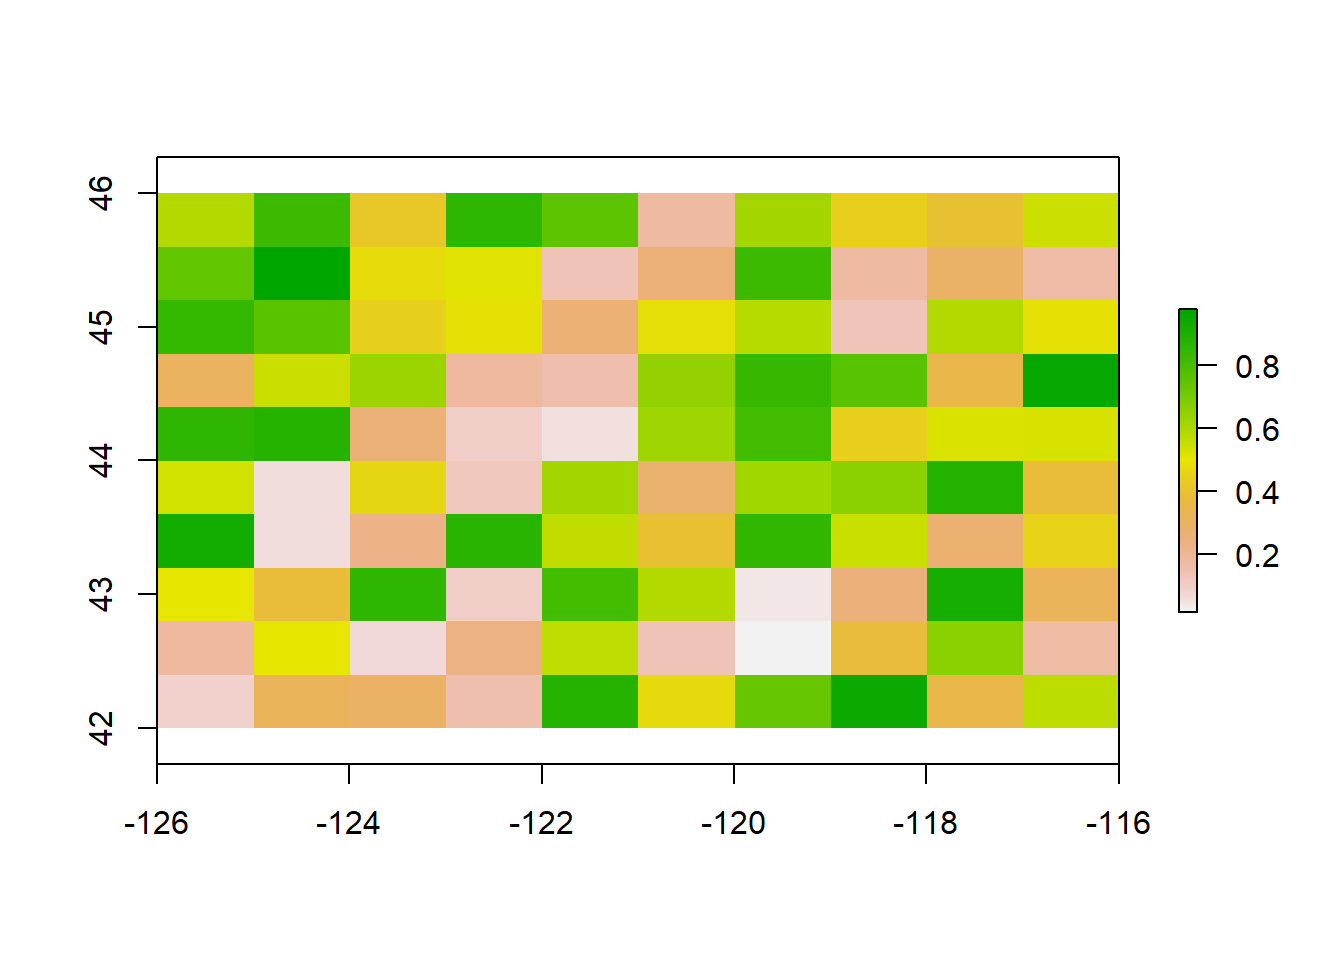
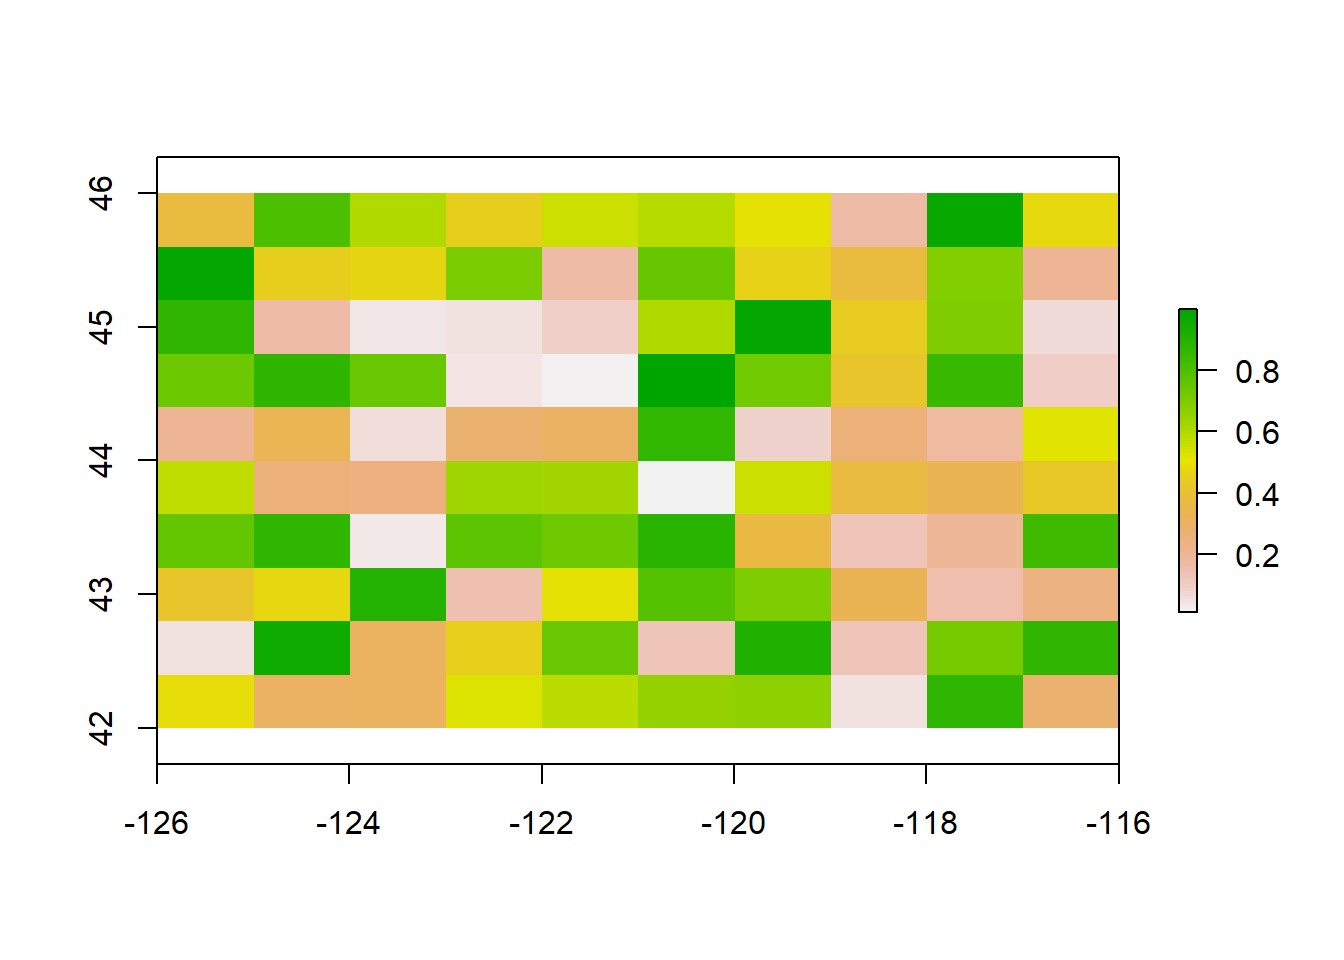
Finish raster section

diff --git a/SpatialObjects.html b/SpatialObjects.html
@@ -830,7 +830,7 @@ PNW &lt;-<span class="st"> </span><span class="kw">spTransform</span>(PNW, <span
 </div>
 <div id="vector-data-with-sf" class="section level3">
 <h3>Vector Data with sf</h3>
-<p>The <code>sf</code> package developed by Edzer Pebesma ia an implementation of <a href="https://en.wikipedia.org/wiki/Simple_Features">Simple features</a>, an open standard developed and endorsed by the Open Geospatial Consortium (OGC). Simple Features is a hierarchical data model that represents a wide range of geometry types - it includes all common vector geometry types(but does not include raster) and even allows geometry collections, which can have multiple geometry types in a single object. From the first <code>sf</code> package vignette we see:</p>
+<p>The <code>sf</code> package developed by Edzer Pebesma ia an implementation of <a href="https://en.wikipedia.org/wiki/Simple_Features">Simple features</a>, an open standard developed and endorsed by the Open Geospatial Consortium (OGC). Simple Features is a hierarchical data model that represents a wide range of geometry types - it includes all common vector geometry types (but does not include raster) and even allows geometry collections, which can have multiple geometry types in a single object. From the first <code>sf</code> package vignette we see:</p>
 <div class="figure">
 <img src="/R-User-Group-Spatial-Workshop-2018/img/sf_objects.png" alt="sf Objects" />
 <p class="caption"><code>sf</code> Objects</p>
@@ -993,6 +993,19 @@ r &lt;-<span class="st"> </span><span class="kw">raster</span>(<span class="dt">
 ## resolution  : 1, 0.4  (x, y)
 ## extent      : -126, -116, 42, 46  (xmin, xmax, ymin, ymax)
 ## coord. ref. : +proj=longlat +datum=WGS84 +ellps=WGS84 +towgs84=0,0,0</code></pre>
+<p>A few quick questions to work through-</p>
+<ul>
+<li>what is the minimal data required to define a <code>RasterLayer</code>?</li>
+<li>What is odd here about the CRS?</li>
+<li>Based on our work with <code>sp</code>, how do we pull out just the CRS for our r <code>rasterLayer</code>? Hint - what is another way besides str(r) to see slots available with our <code>RasterLayer</code> r?</li>
+<li>Building on this, what is the code to pull out just our xmin value in our extent, or bounding box?</li>
+</ul>
+<div class="sourceCode"><pre class="sourceCode r"><code class="sourceCode r">r<span class="op">@</span>crs
+<span class="co"># or</span>
+<span class="kw">crs</span>(r)
+<span class="kw">slotNames</span>(r)
+r<span class="op">@</span>extent[<span class="dv">1</span>]
+<span class="kw">extent</span>(r)[<span class="dv">1</span>]</code></pre></div>
 <p>So far we just have a container with no values (try plotting what we have so far) - let’s provide values to the cells using the runif function to derive random values from the uniform distribution</p>
 <div class="sourceCode"><pre class="sourceCode r"><code class="sourceCode r">r[] &lt;-<span class="st"> </span><span class="kw">runif</span>(<span class="dt">n=</span><span class="kw">ncell</span>(r))
 r</code></pre></div>
@@ -1003,10 +1016,64 @@ r</code></pre></div>
 ## coord. ref. : +proj=longlat +datum=WGS84 +ellps=WGS84 +towgs84=0,0,0 
 ## data source : in memory
 ## names       : layer 
-## values      : 0.01620462, 0.979499  (min, max)</code></pre>
-<p>Notice the different output now on typing r? And we can plot now as well with base R <code>plot</code>:</p>
+## values      : 0.01235175, 0.9997275  (min, max)</code></pre>
+<p>Notice the different output now when typing ‘r?’ An important point to make here is that objects in the <code>raster</code> package can be either in memory or on disk - not the value for our <code>RasterLayer</code> r of ‘data source’. If this were a large raster on disk, the value would be the path to the file on disk.</p>
+<p>We can test this as well using methods in <code>raster</code> (and test if the raster has values too):</p>
+<div class="sourceCode"><pre class="sourceCode r"><code class="sourceCode r"><span class="kw">inMemory</span>(r)</code></pre></div>
+<pre><code>## [1] TRUE</code></pre>
+<div class="sourceCode"><pre class="sourceCode r"><code class="sourceCode r"><span class="kw">fromDisk</span>(r)</code></pre></div>
+<pre><code>## [1] FALSE</code></pre>
+<div class="sourceCode"><pre class="sourceCode r"><code class="sourceCode r"><span class="kw">hasValues</span>(r)</code></pre></div>
+<pre><code>## [1] TRUE</code></pre>
+<p>We can plot now as well with base R <code>plot</code>:</p>
 <div class="sourceCode"><pre class="sourceCode r"><code class="sourceCode r"><span class="kw">plot</span>(r)</code></pre></div>
 <p><img src="SpatialObjects_files/figure-html/plot%20raster-1.png" width="672" /></p>
+<p>We can also overwrite the cell values for our raster:</p>
+<div class="sourceCode"><pre class="sourceCode r"><code class="sourceCode r"><span class="kw">values</span>(r) &lt;-<span class="st"> </span><span class="dv">1</span><span class="op">:</span><span class="kw">ncell</span>(r)
+<span class="kw">values</span>(r)</code></pre></div>
+<pre><code>##   [1]   1   2   3   4   5   6   7   8   9  10  11  12  13  14  15  16  17
+##  [18]  18  19  20  21  22  23  24  25  26  27  28  29  30  31  32  33  34
+##  [35]  35  36  37  38  39  40  41  42  43  44  45  46  47  48  49  50  51
+##  [52]  52  53  54  55  56  57  58  59  60  61  62  63  64  65  66  67  68
+##  [69]  69  70  71  72  73  74  75  76  77  78  79  80  81  82  83  84  85
+##  [86]  86  87  88  89  90  91  92  93  94  95  96  97  98  99 100</code></pre>
+<p>You can access raster values via direct indexing or line, column indexing - take a minute to see how this works using raster r we just created - the syntax is:</p>
+<div class="sourceCode"><pre class="sourceCode r"><code class="sourceCode r">r[i]
+r[line, column]</code></pre></div>
+<p>How is <code>raster</code> data storage unlike a <code>matrix</code> in R? You can create a <code>matrix</code> with same dimensions and values and compare if you want:</p>
+<div class="sourceCode"><pre class="sourceCode r"><code class="sourceCode r">m &lt;-<span class="st"> </span><span class="kw">matrix</span> (<span class="dv">1</span><span class="op">:</span><span class="dv">100</span>, <span class="dt">nrow=</span><span class="dv">10</span>, <span class="dt">ncol=</span><span class="dv">10</span>)
+m[<span class="dv">1</span>,<span class="dv">2</span>]</code></pre></div>
+<pre><code>## [1] 11</code></pre>
+<div class="sourceCode"><pre class="sourceCode r"><code class="sourceCode r">r[<span class="dv">1</span>,<span class="dv">2</span>]</code></pre></div>
+<pre><code>##   
+## 2</code></pre>
+<p><code>RasterBrick</code> and <code>RasterStack</code> are the two additional classes in <code>raster</code> and handle multiple raster layers. They differ from each other in how they handle multiple layers, file formats they support, their representation and their processing speed. A <code>RasterBrick</code> typicallly is a single multi-layer file such as a multispectral image. A <code>RasterStack</code> can virtually connect several <code>RasterLayer</code> objects in memory and allows pixel-based calculations on separate raster layers, while a <code>RasterBrick</code> has to refer to a single multi-layer file or multi-layer object. Note that methods that operate on either a <code>RasterStack</code> or <code>RasterBrick</code> usually return a <code>RasterBrick</code>, and processing will be mor efficient on a <code>RasterBrick</code> object.</p>
+<p>It’s easy to manipulate our <code>RasterLayer</code> to make a couple new layers, and then stack layers:</p>
+<div class="sourceCode"><pre class="sourceCode r"><code class="sourceCode r">r2 &lt;-<span class="st"> </span>r <span class="op">*</span><span class="st"> </span><span class="dv">50</span>
+r3 &lt;-<span class="st"> </span><span class="kw">sqrt</span>(r <span class="op">*</span><span class="st"> </span><span class="dv">5</span>)
+s &lt;-<span class="st"> </span><span class="kw">stack</span>(r, r2, r3)
+s</code></pre></div>
+<pre><code>## class       : RasterStack 
+## dimensions  : 10, 10, 100, 3  (nrow, ncol, ncell, nlayers)
+## resolution  : 1, 0.4  (x, y)
+## extent      : -126, -116, 42, 46  (xmin, xmax, ymin, ymax)
+## coord. ref. : +proj=longlat +datum=WGS84 +ellps=WGS84 +towgs84=0,0,0 
+## names       :    layer.1,    layer.2,    layer.3 
+## min values  :   1.000000,  50.000000,   2.236068 
+## max values  :  100.00000, 5000.00000,   22.36068</code></pre>
+<div class="sourceCode"><pre class="sourceCode r"><code class="sourceCode r"><span class="kw">plot</span>(s)</code></pre></div>
+<p><img src="SpatialObjects_files/figure-html/plot_stack-1.png" width="672" /> Same process for generating a raster brick (here I make layers and create a <code>RasterBrick</code> in same step):</p>
+<div class="sourceCode"><pre class="sourceCode r"><code class="sourceCode r">b &lt;-<span class="st"> </span><span class="kw">brick</span>(<span class="dt">x=</span><span class="kw">c</span>(r, r <span class="op">*</span><span class="st"> </span><span class="dv">50</span>, <span class="kw">sqrt</span>(r <span class="op">*</span><span class="st"> </span><span class="dv">5</span>)))
+b</code></pre></div>
+<pre><code>## class       : RasterBrick 
+## dimensions  : 10, 10, 100, 3  (nrow, ncol, ncell, nlayers)
+## resolution  : 1, 0.4  (x, y)
+## extent      : -126, -116, 42, 46  (xmin, xmax, ymin, ymax)
+## coord. ref. : +proj=longlat +datum=WGS84 +ellps=WGS84 +towgs84=0,0,0 
+## data source : in memory
+## names       :    layer.1,    layer.2,    layer.3 
+## min values  :   1.000000,  50.000000,   2.236068 
+## max values  :  100.00000, 5000.00000,   22.36068</code></pre>
 </div>
 <div id="geographic-data-io" class="section level3">
 <h3>Geographic Data I/O</h3>
